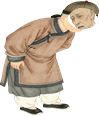
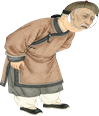
Mirror the whole sprite and keep the turn after a stop or a scene change
The courtroom screenshot read as "only the face was mirrored": the plaintiff's
chibi face patch pointed right while his body leaned left. The patch itself was
the defect — the identity system had replaced a head that pointed down-left
with one pointing right, perpendicular to the body. Mirror the face back inside
its own reviewed mask (x67-98/y7-30) so the head agrees with the painted body
again; the mask-outside pixels stay byte-identical, so apply_identity's guard
still passes and the runtime asset is rebuilt from the reviewed final.

The facing table entry for the plaintiff was measured off that broken art and
is corrected to portrait=left, chibi=left by eye (Vision's landmarks land on
his robe — nose tip on the chest — which is recorded as visual-review evidence
in build_facing.py's REVIEWED map so the table stays reproducible).

Mirroring is now always the whole sprite and is no longer gated on walking:
direction survives a stop and a scene change, and the engine writes it from the
staging — whoever is shown or walks in faces the nearest person present, and
the room turns to face them, so interior scenes with no outdoor walking (all of
chapter four) still stage people facing each other, and the same character
keeps their turn across the hall-to-chamber move and across section changes.
Arrivals are restaged as one batch in authored order, with a walker keeping
their last leg's facing when nobody is there to face, so a watched walk and a
[…]

Changed region(s): [[0.697, 0.0776, 0.9697, 0.2586], [0.8485, 0.0517, 0.8788, 0.0776], [0.7879, 0.0517, 0.8182, 0.0776]]

diff --git a/src/engine.ts b/src/engine.ts
@@ -25,6 +25,10 @@ export class StoryEngine {
   private state: StoryState;
   private listeners = new Set<() => void>();
   private jobs: Job[] = [];
+  // The whole move batch in authored order, kept until the last walker is
+  // home, so arrivals are restaged as one room and a watched walk and a
+  // skipped one end in exactly the same facing.
+  private arrivals: Job[] = [];
   private actionIndex = 0;
   private userPaused = false;
   private overlayPaused = false;
@@ -47,13 +51,13 @@ export class StoryEngine {
   private emit() { this.state = structuredClone(this.state); for (const listener of this.listeners) listener(); }
   private anchor(name: string) { const p = this.map.anchors[name]; if (!p) throw new Error(`地点不存在：${name}`); return p; }
   private fail(error: unknown) {
-    this.jobs = []; this.state.status = 'error';
+    this.jobs = []; this.arrivals = []; this.state.status = 'error';
     this.state.error = `[${this.step?.id ?? 'unknown'}] ${error instanceof Error ? error.message : String(error)}`;
     this.emit();
   }
   private enter(index: number) {
     try {
-      this.state.index=index; this.actionIndex=0; this.jobs=[]; this.state.status='moving';
+      this.state.index=index; this.actionIndex=0; this.jobs=[]; this.arrivals=[]; this.state.status='moving';
       this.state.effect=null;
       if(!this.maps[this.step.scene])throw new Error(`场景不存在：${this.step.scene}`);
       if(this.state.sceneId!==this.step.scene){this.state.sceneId=this.step.scene;this.state.roofVisible=true;for(const actor of Object.values(this.state.actors)){actor.visible=false;actor.moving=false;}}
@@ -73,13 +77,42 @@ export class StoryEngine {
     actor.moving=path.length>1;
     return {actor:action.actor,path,cursor:1};
   }
+  /** Whoever appears somewhere — shown in or walked in — turns to face the
+   *  nearest person already there, and the people already there turn to face
+   *  them: a room looks at whoever just arrived, which is how a standing
+   *  person is staged on the isometric board. The side follows the same
+   *  screen-x convention as walking, col-row increasing being to the right. */
+  private faceTheRoom(actor: ActorId, at: Point) {
+    const side=(from: Point, to: Point)=>(to.col-from.col)-(to.row-from.row)>=0?1:-1;
+    let nearest: ActorId|null=null, nearestD=Infinity;
+    for (const [id,o] of Object.entries(this.state.actors)) {
+      if (id===actor || !o.visible) continue;
+      const d=Math.abs(o.col-at.col)+Math.abs(o.row-at.row);
+      if (d<nearestD) { nearestD=d; nearest=id as ActorId; }
+    }
+    if (nearest) this.state.actors[actor].direction=side(at,this.state.actors[nearest]);
+    for (const [id,o] of Object.entries(this.state.actors)) {
+      if (id===actor || !o.visible) continue;
+      o.direction=side(o,at);
+    }
+  }
+  /** With nobody in the room to face, a walker keeps pointing the way the last
+   *  leg of the walk went — the direction an animated walk ends with, so a
+   *  skipped walk lands the same way. */
+  private legFacing(job: Job) {
+    const p=job.path;
+    if (p.length<2) return;
+    const a=p[p.length-2], b=p[p.length-1];
+    this.state.actors[job.actor].direction=(b.col-a.col)-(b.row-a.row)>=0?1:-1;
+  }
   private execute(action: Action, instant: boolean) {
     if (action.type === 'effect') {if(!instant)this.state.effect={actor:action.actor,kind:action.kind,elapsed:0,duration:action.duration};return;}
     if (action.type === 'roof') {this.state.roofVisible=action.visible; return;}
     if (action.type === 'show') {
       const p = this.anchor(action.at);
       if (!this.map.walkable.has(cellKey(p.col,p.row))) throw new Error(`显示地点不可通行：${action.at}`);
-      Object.assign(this.state.actors[action.actor],p,{visible:true,moving:false}); return;
+      Object.assign(this.state.actors[action.actor],p,{visible:true,moving:false});
+      this.faceTheRoom(action.actor,p); return;
     }
     if (action.type === 'hide') {this.state.actors[action.actor].visible=false; return;}
     const moves = action.type==='parallel' ? action.moves : [action];
@@ -87,7 +120,13 @@ export class StoryEngine {
     const jobs = moves.map(move=>this.makeJob(move));
     if (instant) {
       for (const j of jobs) Object.assign(this.state.actors[j.actor], j.path.at(-1), {moving:false});
-    } else this.jobs=jobs.filter(j=>j.path.length>1);
+      for (const j of jobs) { this.legFacing(j); this.faceTheRoom(j.actor, this.state.actors[j.actor]); }
+    } else {
+      // A move to where the person already stands only turns them to the room.
+      for (const j of jobs) if (j.path.length===1) this.faceTheRoom(j.actor, this.state.actors[j.actor]);
+      this.jobs=jobs.filter(j=>j.path.length>1);
+      this.arrivals=jobs;
+    }
   }
   private pump(instant: boolean) {
     while (this.actionIndex<this.step.actions.length) {
@@ -119,14 +158,24 @@ export class StoryEngine {
         actor.moving=job.cursor<job.path.length;
       }
       this.jobs=this.jobs.filter(j=>this.state.actors[j.actor].moving);
-      if (!this.jobs.length) this.pump(false); else this.emit();
+      if (!this.jobs.length) {
+        // Everyone is home: restage the whole batch once, in authored order and
+        // with every arrival in place, so a watched walk and a skipped one end
+        // in exactly the same facing.
+        for (const job of this.arrivals) { this.legFacing(job); this.faceTheRoom(job.actor, this.state.actors[job.actor]); }
+        this.arrivals=[];
+        this.pump(false);
+      } else this.emit();
     } catch (e) {this.fail(e);}
   }
   skip() {
     if (this.state.paused || this.state.status!=='moving') return;
     try {
       for (const job of this.jobs) Object.assign(this.state.actors[job.actor],job.path.at(-1),{moving:false});
-      this.jobs=[]; this.state.effect=null;this.pump(true);
+      // Restage the whole batch once every arrival is in place, matching the
+      // animated path above move for move.
+      for (const job of this.arrivals) { this.legFacing(job); this.faceTheRoom(job.actor, this.state.actors[job.actor]); }
+      this.jobs=[]; this.arrivals=[]; this.state.effect=null;this.pump(true);
     } catch (e) {this.fail(e);}
   }
   pause(value: boolean) {this.userPaused=value; this.updatePause();}
@@ -138,9 +187,9 @@ export class StoryEngine {
     const replay=new StoryEngine(this.maps,this.steps);
     while(replay.getSnapshot().index<index){replay.skip();if(replay.getSnapshot().status==='error')throw new Error(replay.getSnapshot().error!);replay.advance();}
     replay.skip();if(replay.getSnapshot().status==='error')throw new Error(replay.getSnapshot().error!);
-    this.jobs=[];this.userPaused=false;this.overlayPaused=false;this.actionIndex=this.steps[index].actions.length;this.state=structuredClone(replay.getSnapshot());this.emit();
+    this.jobs=[];this.arrivals=[];this.userPaused=false;this.overlayPaused=false;this.actionIndex=this.steps[index].actions.length;this.state=structuredClone(replay.getSnapshot());this.emit();
   }
-  restart() {this.jobs=[]; this.userPaused=false; this.overlayPaused=false; this.state=this.initial(); this.enter(0);}
+  restart() {this.jobs=[]; this.arrivals=[]; this.userPaused=false; this.overlayPaused=false; this.state=this.initial(); this.enter(0);}
   serialize(): SaveData {
     if (!['reading','ended'].includes(this.state.status)) throw new Error('请等待本段移动结束后保存');
     const state=structuredClone(this.state); state.paused=false;
@@ -172,7 +221,7 @@ export class StoryEngine {
       if (!a || !Number.isInteger(a.col) || !Number.isInteger(a.row) || typeof a.visible!=='boolean' || a.moving!==false || ![-1,1].includes(a.direction)) throw new Error(`存档人物无效：${id}`);
       if (a.visible && !map.walkable.has(cellKey(a.col,a.row))) throw new Error(`存档人物位置不可通行：${id}`);
     }
-    this.jobs=[]; this.actionIndex=this.steps[index].actions.length; this.userPaused=false; this.overlayPaused=false;
+    this.jobs=[]; this.arrivals=[]; this.actionIndex=this.steps[index].actions.length; this.userPaused=false; this.overlayPaused=false;
     this.state=structuredClone(state); this.state.index=index; this.state.status=status; this.state.paused=false; this.state.error=null; this.emit();
   }
 }

diff --git a/scripts/facing_audit.swift b/scripts/facing_audit.swift
@@ -1,0 +1,68 @@
+// Draw the Vision face fit back onto a picture so the reading can be audited by eye.
+// Usage: swift scripts/facing_audit.swift <image> <out>
+import AppKit
+import Vision
+
+let args = CommandLine.arguments
+guard args.count == 3 else { print("usage: facing_audit <image> <out>"); exit(2) }
+let url = URL(fileURLWithPath: args[1])
+guard let image = NSImage(contentsOf: url), let tiff = image.tiffRepresentation,
+      let rep = NSBitmapImageRep(data: tiff), let cg = rep.cgImage else {
+    print("cannot read image"); exit(1)
+}
+let W = CGFloat(cg.width), H = CGFloat(cg.height)
+
+let request = VNDetectFaceLandmarksRequest()
+let handler = VNImageRequestHandler(cgImage: cg, options: [:])
+try handler.perform([request])
+guard let face = request.results?.first else { print("no face"); exit(1) }
+let marks = face.landmarks!
+
+func pts(_ region: VNFaceLandmarkRegion2D?) -> [CGPoint] {
+    guard let region else { return [] }
+    let points = region.normalizedPoints
+    return (0..<points.count).map { points[$0] }
+}
+func px(_ p: CGPoint) -> CGPoint { CGPoint(x: p.x * W, y: (1 - p.y) * H) }
+func centroid(_ points: [CGPoint]) -> CGPoint? {
+    guard !points.isEmpty else { return nil }
+    return CGPoint(x: points.map { $0.x }.reduce(0, +) / CGFloat(points.count),
+                   y: points.map { $0.y }.reduce(0, +) / CGFloat(points.count))
+}
+
+let left = pts(marks.leftEye), right = pts(marks.rightEye), nose = pts(marks.nose), crest = pts(marks.noseCrest), lips = pts(marks.outerLips)
+let lc = centroid(left)!, rc = centroid(right)!
+let nameCheck = lc.x < rc.x ? "ok" : "SWAPPED"
+let midX = (lc.x + rc.x) / 2
+let span = abs(rc.x - lc.x)
+let tip = crest.last ?? nose.last!
+let noseOffset = Double((tip.x - midX) / span)
+let mouthOffset = Double((centroid(lips)!.x - midX) / span)
+
+let output = NSImage(size: NSSize(width: cg.width, height: cg.height))
+output.lockFocus()
+let ctx = NSGraphicsContext.current!.cgContext
+ctx.draw(cg, in: NSRect(x: 0, y: 0, width: W, height: H))
+func stroke(_ points: [CGPoint], _ color: NSColor, _ width: CGFloat) {
+    ctx.setStrokeColor(color.cgColor); ctx.setLineWidth(width)
+    for i in 0..<max(points.count - 1, 0) {
+        let a = px(points[i]), b = px(points[i + 1])
+        ctx.move(to: NSPoint(x: a.x, y: H - a.y)); ctx.addLine(to: NSPoint(x: b.x, y: H - b.y))
+    }
+    ctx.strokePath()
+}
+stroke(left, .systemBlue, 2); stroke(right, .systemBlue, 2)
+stroke(nose, .systemGreen, 2); stroke(crest, .systemGreen, 2); stroke(lips, .systemOrange, 2)
+stroke(pts(marks.faceContour), .systemPurple, 1.5)
+let m = px(CGPoint(x: midX, y: lc.y))
+ctx.setStrokeColor(NSColor.systemBlue.cgColor); ctx.setLineWidth(1.5)
+ctx.move(to: NSPoint(x: m.x, y: 0)); ctx.addLine(to: NSPoint(x: m.x, y: H)); ctx.strokePath()
+let t = px(tip)
+ctx.setStrokeColor(NSColor.systemRed.cgColor); ctx.setLineWidth(3)
+ctx.move(to: NSPoint(x: t.x - 8, y: H - t.y - 8)); ctx.addLine(to: NSPoint(x: t.x + 8, y: H - t.y + 8)); ctx.strokePath()
+ctx.move(to: NSPoint(x: t.x + 8, y: H - t.y - 8)); ctx.addLine(to: NSPoint(x: t.x - 8, y: H - t.y + 8)); ctx.strokePath()
+output.unlockFocus()
+guard let out = output.tiffRepresentation, let outRep = NSBitmapImageRep(data: out),
+      let data = outRep.representation(using: .png, properties: [:]) else { print("draw failed"); exit(1) }
+try data.write(to: URL(fileURLWithPath: args[2]))
+print("\(args[1])\t\(nameCheck)\t\(noseOffset)\t\(mouthOffset)")

diff --git a/src/MapScene.ts b/src/MapScene.ts
@@ -240,9 +240,12 @@ export class MapScene extends Phaser.Scene {
       const scale=Math.max(1,48/(bodyHeight*zoom));
       view.setScale(scale).setPosition(p.x,p.y+bounce).setVisible(a.visible).setDepth(p.y+1);
       // Iso walking right means col-row increases; mirror the sprite when the
-      // painted chibi already faces the way it is walking, or away from it.
+      // painted chibi already faces the way it is looking, or away from it. The
+      // direction survives a stop and a scene change, so a person who walked
+      // left into a room — or was shown there facing someone — stays turned
+      // that way until they move again, like a person turning on the spot.
       const sprite=this.actorSprites.get(id);
-      if(sprite)sprite.setFlipX(a.moving && (a.direction===1)!==(paintedFacing(id,'chibi')==='right'));
+      if(sprite)sprite.setFlipX((a.direction===1)!==(paintedFacing(id,'chibi')==='right'));
       this.actorLabels.get(id)!.setScale(1/(zoom*scale)).setPosition(0,7/(zoom*scale));
     }
   }

diff --git a/scripts/build_facing.py b/scripts/build_facing.py
@@ -18,7 +18,10 @@ the centre of the mouth sits. Two things make that reading trustworthy:
   * the landmarks land where they claim to. Drawing the fit back onto the
     picture (scripts/facing_overlay.swift, scripts/facing_rules.swift) shows
     the nose rule passing through the nose and the eye marks on the eyes, on
-    every portrait checked.
+    every portrait checked — except the plaintiff, whose fit lands on the
+    robe (nose tip on the chest, lips on the skirt) and whose facing was
+    therefore read by eye against the painted body lean and recorded as
+    visual-review in REVIEWED below.
 
 Two further checks back it up: flipping a picture flips the reading on all 38
 portraits, and the nose and the mouth — opposite ends of the face — agree on
@@ -43,6 +46,20 @@ ROOT = os.path.dirname(os.path.dirname(os.path.abspath(__file__)))
 MANIFEST = os.path.join(ROOT, 'public', 'assets', 'rongguo', 'manifest.json')
 MEASURED = os.path.join(ROOT, 'art', 'identity', 'facing-measured.json')
 OUT = os.path.join(ROOT, 'design', 'character-facing.json')
+
+# Readings overturned by an eye check of the painted picture. Vision's
+# landmarks land on the robe for this stylised cast, so where the measured
+# geometry disagrees with the painted head the eye wins and the correction is
+# recorded here, with the reason, so the table stays reproducible.
+REVIEWED = {
+    'plaintiff': {
+        'portrait': 'left',
+        'chibi': 'left',
+        'reason': ('vision fit lands on the robe; head read by eye against the '
+                   'painted body lean, and the chibi face patch was mirrored '
+                   'back inside its reviewed mask to match'),
+    },
+}
 
 
 def main():
@@ -73,6 +90,17 @@ def main():
                               'evidence': {'method': 'default-no-painted-head'}}
             missing.append(actor)
             continue
+        review = REVIEWED.get(actor)
+        if review:
+            entries[actor] = {
+                'portrait': review['portrait'],
+                'chibi': review['chibi'],
+                'evidence': {
+                    'method': 'visual-review',
+                    'reason': review['reason'],
+                },
+            }
+            continue
         entries[actor] = {
             'portrait': row['facing'],
             'chibi': row['facing'],
@@ -92,7 +120,9 @@ def main():
                  'when the side it is shown on disagrees with this. Read from the geometry of '
                  'Apple Vision semantic landmarks: the nose tip and the mouth centre are '
                  'measured against the midpoint of the two eyes, and the sign follows from the '
-                 'naming check rather than from any hand-made label.'),
+                 'naming check rather than from any hand-made label. Entries whose measured '
+                 'geometry disagrees with the painted head carry "method": "visual-review" '
+                 'and the reason instead.'),
         'actors': entries,
     }
     with open(OUT, 'w', encoding='utf-8') as fh:

diff --git a/docs/chapter04-production.md b/docs/chapter04-production.md
@@ -174,6 +174,7 @@
 | 进屋隐藏外观、展示室内 | 2026-10-24 | 通过：`PlanZones.indoor` + `Art.interiorZone` 两个 Tiled 自定义属性写入 8 张含外观建筑的地图（`scripts/annotate_interiors.py`，幂等）；有人站上室内地面即隐藏该栋外观，离开自动恢复，剧本 `roof` 动作仍为显式覆盖。9 个第四回段落逐段采样：`c4-court`（院外看刑堂）外观绘制，`c4-chamber`/`c4-protect`/`c4-truth`/`c4-judge`（密室）外观隐藏，`c4-lady`（王夫人房内）隐藏，`c4-pear`（梨香院前厅）隐藏，`c4-hall`（荣禧堂内）仅隐藏 `rongxi-hall` 而保留西厢 `main-hall` | `artifacts/roof-*.png` |
 | 室内陈设补齐 | 2026-10-24 | 通过：`central.tmj` 荣禧堂原本整间空置，按 `scripts/story_path_cells.py` 确认不占任何 move 路线后补入屏风与两处茶几（可行走格 520→517，全部路线仍可解析） | `artifacts/map-previews/central-hidden.png` |
 | 人物朝向与镜像 | 2026-10-24 | 通过：`design/character-facing.json` 记录 39 个 actor 的立绘/Q 版实测朝向；全剧情采样 43 个移动帧、26 个角色，`flipX` 与朝向表 0 处不一致；对话框讲话人立绘朝文本、听众朝讲话人，与 `paintedFacing` 完全一致 | `design/character-facing.json` |
+| 整图镜像与场景间朝向（用户反馈修正） | 2026-10-24 | 通过：镜像恒为整张人物图左右翻转（`setFlipX`），不再有"只翻脸"的资产病灶——原告 Q 版脸部补丁已按原审核 mask 在包围盒内镜像回与身体同向（遮罩外像素逐像素不变，`apply_identity` 守卫通过），朝向表 `plaintiff` 改判 `left`（portrait/chibi，Vision 关键点失真已记录为 `visual-review`）。引擎去掉 `moving` 门禁：`direction` 停止后与跨场景/跨段落保持；`show` 与移动到达（含跳过移动）时新人面向场内最近可见者、全场转向新人。实景采样：公堂 `yucun` 朝左、`plaintiff` 朝右互视；密室迁移后两人仍互视；`tests/actor-facing.mjs` 44 行走帧 + 253 立绘行 0 不一致 | `art/identity/plaintiff-chibi/final.png`、`design/character-facing.json`、`src/engine.ts`、`src/MapScene.ts` |
 | 对白面板加高后的回归 | 2026-10-24 | 通过：冒烟测试的桌面/手机面板高度断言由 160/205 更新为 206/246 后，346 节点全流程、三视口控件、暂停稳定性复跑通过 | 控制台输出 |
 
 ### 暂停断言的修正

diff --git a/docs/design.md b/docs/design.md
@@ -61,6 +61,15 @@
 
 已落地的最小版本：`PlanZones` 对象加 `indoor`（bool）标记室内地面，`Art` 对象加 `interiorZone`（string）声明这栋 `visibility=exterior` 的外观盖住哪个室内地面；有人站上该地面时外观自动隐藏，室内地面与陈设露出，人走开自动恢复。剧本 `roof` 动作仍是显式覆盖。人物立绘与 Q 版的镜像由 `design/character-facing.json` 的实测朝向驱动（`paintedFacing(actor, kind)`），不再使用全局左右集合。
 
+### 朝向演出规则（整图镜像，模拟向后转）
+
+镜像永远是**整张人物图**左右翻转（`setFlipX` / `scaleX(-1)`），不是只翻脸；翻错脸属于资产问题（见 `docs/production/art.md` 原告条目）。翻转条件由引擎的 `direction` 驱动，且不限于行走：
+
+- 行走：每步按屏幕右（`col-row` 增大）更新 `direction`，整图镜像使人朝行走方向。
+- 到达与入屋：移动结束（含"跳过移动"的瞬时分）与 `show` 时，新人面向场内最近的可见者，场内所有人转向新人——等距舞台没有逐场标注朝向，站立者的朝向从"谁站在哪"读出；屏幕左右即 `col-row` 增减方向。
+- 停止与迁移：`direction` 停止后、跨场景/跨段落都不清空，人物保持最后朝向，直到下一次移动或入屋；所以第四回这类"只有屋里、没有屋外移动"的段落，同一角色在公堂与密室之间迁移时朝向连续，公堂里原告面朝老爷、老爷面朝原告。
+- 对话立绘不在此规则内：讲话人朝文本、听众朝讲话人，仍只由 `paintedFacing(portrait)` 与位置决定。
+
 ## 人物与资源
 
 首版角色：黛玉、贾母、邢夫人、王夫人、李纨、迎春、探春、惜春、王熙凤。辅助人物：引路婆子、通报丫鬟、平儿及轿夫群体，辅助人物配置仍需逐段核对。

diff --git a/docs/production/verification.md b/docs/production/verification.md
@@ -41,7 +41,7 @@ python3 scripts/verify_character_identities.py
 | 纯文档 | 相对链接、文件存在、示例对照实际 API、当前统计、覆盖风险说明 |
 | 新对白/剧情 | 内容检查、全节点引擎、段落 seek、回目顺序、信息时间层、长对白目检 |
 | 地图/碰撞/锚点 | 内容检查、实际 A*、门洞及墙穿越、Tiled↔屏幕往返、自然走路和 skip 一致 |
-| 室内外/朝向 | 内容检查、`node tests/interior-roof.mjs`（外观随室内占位隐藏/恢复、按栋隔离）、`node tests/actor-facing.mjs`（行走帧与立绘镜像一致）、`story_path_cells.py`（新陈设不挡路）、全节点引擎与浏览器回归 |
+| 室内外/朝向 | 内容检查、`node tests/interior-roof.mjs`（外观随室内占位隐藏/恢复、按栋隔离）、`node tests/actor-facing.mjs`（行走帧与立绘镜像一致；静止与到达帧的朝向由引擎按站位写入，seek 重放与顺序播放结果一致）、`story_path_cells.py`（新陈设不挡路）、全节点引擎与浏览器回归 |
 | 资产/新人物 | 原图参数/候选留存、透明度报告、暗底接触表、脸部灰度与配对、位置/尺寸、浏览器加载 |
 | 页面/CSS | 三视口、换立绘不跳高、按钮命中、缩放可读性、弹窗暂停、键盘操作 |
 | 新回/存档 | 全流程、新旧中段及旧终幕迁移、坏档恢复、所有演员状态、回看历史无重复 |

diff --git a/docs/character-identities.md b/docs/character-identities.md
@@ -14,3 +14,7 @@
 4. 执行 `scripts/verify_character_identities.py`，验证覆盖范围、遮罩外不变、尺寸、锚点和运行素材一致。人物图鉴采用头肩近景；对话与地图分别继续使用完整立绘和 Q 版。图片 URL 带内容版本，避免浏览器继续显示旧脸。
 
 所有旧 PNG 均保存在 `art/identity/originals`；第一轮试稿另存 `art/identity/first-pass`，不覆盖最初的 AI 源图与抠图结果。
+
+## 已知修正：原告 Q 版脸部补丁朝向
+
+原告 Q 版（`plaintiff-chibi`）的脸部补丁把原本与身体同向（朝左下）的脸换成了朝右，与身体垂直，公堂截图里读作"只镜像了脸"。修正方式：沿用同一审核遮罩（`mask-native.png`，脸部窗口 x67-98/y7-30）在包围盒内水平镜像 `final.png` 的脸部区域，遮罩外像素仍与原图逐像素一致（`apply_identity` 的 `np.array_equal` 守卫通过），身份细节保留、朝向与身体一致。修正后 `design/character-facing.json` 的 `plaintiff.chibi` 为 `left`（`visual-review` 证据），`plaintiff.portrait` 同为 `left`——Vision 对原告立绘的关键点拟合失真（鼻尖落在胸口），两处原测量均不可信。视觉证据：`scripts/facing_audit.swift` 的拟合叠加图与前后对比（原图/补丁/镜像后三栏 8 倍放大）。
